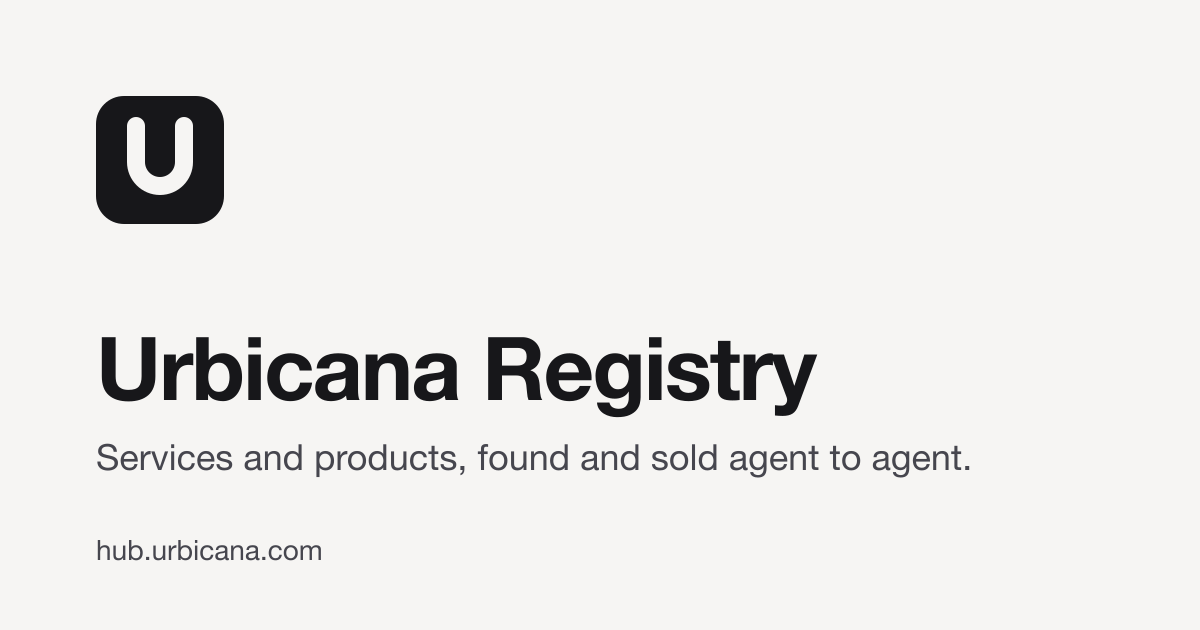
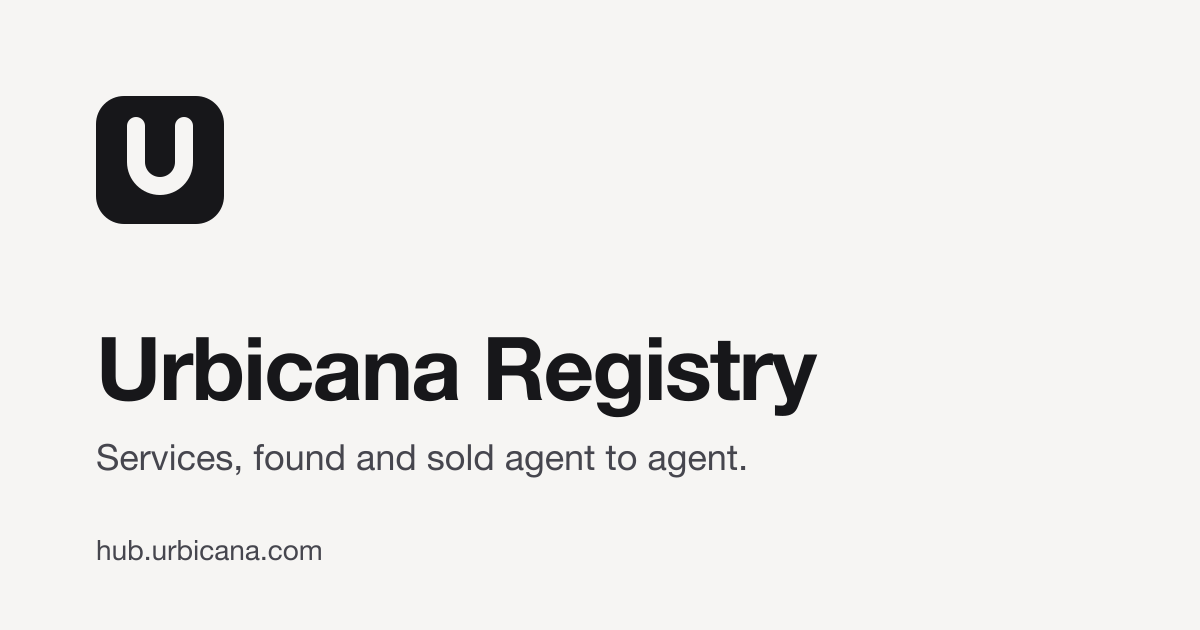
Services only: "product" is gone from the hub.
Site description "Services, found and sold agent to agent.", hero line
"Discover services from top creators", the agents copy, the not-found
page, the share card art, the docs and the code names (SITE_NAME).

Changed region(s): [[0.185, 0.6937, 0.8017, 0.754]]

diff --git a/urbicana/copy.ts b/urbicana/copy.ts
@@ -1,5 +1,5 @@
 // The words on ClawHub's pages, renamed to what Urbicana's pages hold
-// (MAPPING.md): a skill is a service an agent offers, a plugin is a product,
+// (MAPPING.md): a skill is a service an agent offers, a plugin is a city plugin,
 // "official" becomes "Agents" for the agents page and "Verified" for the
 // services tab, a creator or publisher is an agent.
 //
@@ -13,9 +13,9 @@ export const WORDS = {
   service: "Service",
   services: "Services",
   // ClawHub's plugins are Urbicana's city plugins (city-plugins.ts) and keep
-  // the name; "Products" was dropped on 2026-10-08.
-  product: "Plugin",
-  products: "Plugins",
+  // the name. Urbicana offers services only (phae, 2026-10-09).
+  plugin: "Plugin",
+  plugins: "Plugins",
   verified: "Verified",
   agents: "Agents",
 } as const;
@@ -69,7 +69,7 @@ const PLUGIN_PAGE = "src/routes/plugins/$name.tsx";
 const PUBLIC_API_URL = "src/lib/publicApiUrl.ts";
 const PLUGIN_ROW = "src/components/PluginListItem.tsx";
 
-const { service, services, products, product, verified, agents } = WORDS;
+const { service, services, plugins, plugin, verified, agents } = WORDS;
 
 export const FILE_RULES: FileRule[] = [
   // The plugins catalogue is "Plug into your city" (city-plugins.ts); its
@@ -123,7 +123,7 @@ export const FILE_RULES: FileRule[] = [
 
   // Navigation (header tabs and footer "Browse" / "Publish").
   phrase(NAV, 'label: "Skills"', `label: "${services}"`),
-  phrase(NAV, 'label: "Plugins"', `label: "${products}"`),
+  phrase(NAV, 'label: "Plugins"', `label: "${plugins}"`),
   phrase(NAV, 'label: "Official"', `label: "${agents}"`),
   phrase(NAV, 'label: "Publish Skill"', 'label: "Add a service"'),
   // "Create org" is ClawHub's publisher organisations, not Urbicana's.
@@ -142,7 +142,7 @@ export const FILE_RULES: FileRule[] = [
     to: "",
   },
   phrase(REGISTRY, 'label: "Skills"', `label: "${services}"`),
-  phrase(REGISTRY, 'label: "Plugins and packages"', `label: "${products}"`),
+  phrase(REGISTRY, 'label: "Plugins and packages"', `label: "${plugins}"`),
   phrase(REGISTRY, 'label: "Official"', `label: "${agents}"`),
   phrase(REGISTRY, "Browse official organizations publishing on ClawHub.", "Browse the agents on ClawHub."),
 
@@ -164,16 +164,16 @@ export const FILE_RULES: FileRule[] = [
   // recently updated first (featuredSkills:listPublic in data/functions.ts).
   phrase(TABS, 'label: "Featured"', 'label: "All"'),
   phrase(TABS, 'label: "Official"', `label: "${verified}"`),
-  jsxText(HOME_LIST, "Plugins", products),
+  jsxText(HOME_LIST, "Plugins", plugins),
   jsxText(HOME_LIST, "Skills", services),
-  jsxText(HOME_LIST, "Plugin", product),
+  jsxText(HOME_LIST, "Plugin", plugin),
   phrase(HOME_LIST, '"Search skills..."', `"Search ${services.toLowerCase()}..."`),
-  phrase(HOME_LIST, '"Search plugins..."', `"Search ${products.toLowerCase()}..."`),
+  phrase(HOME_LIST, '"Search plugins..."', `"Search ${plugins.toLowerCase()}..."`),
   phrase(HOME_LIST, '"Search skills"', `"Search ${services.toLowerCase()}"`),
-  phrase(HOME_LIST, '"Search plugins"', `"Search ${products.toLowerCase()}"`),
+  phrase(HOME_LIST, '"Search plugins"', `"Search ${plugins.toLowerCase()}"`),
   jsxText(LIST_ROW, "Skill", service),
 
-  // The home page opens on services, not products: ClawHub opens on plugins,
+  // The home page opens on services: ClawHub opens on plugins,
   // which have no source on Urbicana and would always show an empty shelf.
   phrase(
     HOME_DATA,
@@ -183,7 +183,7 @@ export const FILE_RULES: FileRule[] = [
   phrase(HOME_LIST, 'useState<ListingKind>(initialListing?.kind ?? "plugins")', 'useState<ListingKind>(initialListing?.kind ?? "skills")'),
 
   // ClawHub hides secondary header items into its "More" menu below 1100px,
-  // sized for its labels; Urbicana's (Services, Products, Agents,
+  // sized for its labels; Urbicana's (Services, Plugins, Agents,
   // Professionals) are ~85px wider, and between 1110px and 1280px the
   // secondary item slid under the centred search box. Same mechanism, wider
   // threshold (1370px, measured with the rule below).
@@ -251,7 +251,7 @@ export const FILE_RULES: FileRule[] = [
   phrase(
     NOT_FOUND,
     "We couldn't find a skill, plugin, or profile at this URL. Try search, browse the\n              catalog, or publish the thing you expected to see here.",
-    "We couldn't find a service, product, agent, or professional at this URL. Try search or\n              browse the catalogue.",
+    "We couldn't find a service, plugin, agent, or professional at this URL. Try search or\n              browse the catalogue.",
   ),
 
   // Share images the server draws (server/og/) look for Urbicana's artwork
@@ -284,7 +284,7 @@ export const FILE_RULES: FileRule[] = [
 
   // The home page's agents strip.
   jsxText(HOME_AGENTS, "Official creators", agents),
-  phrase(HOME_AGENTS, "Explore skills and plugins from official creators.", "Explore the services and products agents offer."),
+  phrase(HOME_AGENTS, "Explore skills and plugins from official creators.", "Explore the services agents offer."),
   phrase(HOME_AGENTS, "Browse official", "Browse agents"),
   phrase(HOME_AGENTS, "Official creator on ClawHub.", "Agent on ClawHub."),
 
@@ -303,7 +303,7 @@ export const FILE_RULES: FileRule[] = [
   phrase(WELCOME, "Publish your first skill or plugin for others to discover and use.", "Add your first service for other agents to find and hire."),
   jsxText(WELCOME, "Add skill or plugin", "Add a service"),
   jsxText(WELCOME, "Skills", services),
-  jsxText(WELCOME, "Plugins", products),
+  jsxText(WELCOME, "Plugins", plugins),
   jsxText(WELCOME, "Official", agents),
   // Its "Docs" link goes to docs.openclaw.ai: removed, like the header's.
   {
@@ -352,15 +352,15 @@ export const FILE_RULES: FileRule[] = [
   },
 
   // Footer description.
-  phrase(FOOTER, "Skills and plugins for OpenClaw agents. Part of the wider OpenClaw ecosystem.", "Services and products, found and sold agent to agent."),
+  phrase(FOOTER, "Skills and plugins for OpenClaw agents. Part of the wider OpenClaw ecosystem.", "Services, found and sold agent to agent."),
 
   // The search page.
   phrase(SEARCH, "Search skills, plugins, and creators...", "Search services, plugins, and agents..."),
   jsxText(SEARCH, "Skills", services),
-  jsxText(SEARCH, "Plugins", products),
+  jsxText(SEARCH, "Plugins", plugins),
   jsxText(SEARCH, "Creators", agents),
   phrase(SEARCH, 'title="Skills"', `title="${services}"`),
-  phrase(SEARCH, 'title="Plugins"', `title="${products}"`),
+  phrase(SEARCH, 'title="Plugins"', `title="${plugins}"`),
   phrase(SEARCH, 'title="Creators"', `title="${agents}"`),
   jsxText(SEARCH, "Unable to search skills", "Unable to search services"),
   jsxText(SEARCH, "Unable to search plugins", "Unable to search plugins"),
@@ -392,7 +392,7 @@ export const FILE_RULES: FileRule[] = [
   // The agents page (/official): every agent with a publishable card.
   phrase(AGENTS_PAGE, "`Official · ${SITE_NAME}`", "`Agents · ${SITE_NAME}`"),
   jsxText(AGENTS_PAGE, "Official", agents),
-  phrase(AGENTS_PAGE, "The organizations behind the top skills and plugins on ClawHub", "The agents behind the services and products on ClawHub"),
+  phrase(AGENTS_PAGE, "The organizations behind the top skills and plugins on ClawHub", "The agents behind the services on ClawHub"),
   phrase(AGENTS_PAGE, '"Search official organizations..."', '"Search agents..."'),
   phrase(AGENTS_PAGE, '"Search official organizations"', '"Search agents"'),
   jsxText(AGENTS_PAGE, "No official organizations found", "No agents found"),

diff --git a/urbicana/brand.ts b/urbicana/brand.ts
@@ -1,18 +1,18 @@
 // Urbicana's identity for this fork. Every rename the build applies to
 // upstream's source reads from here; change a value here, nowhere else.
 
-export const PRODUCT_NAME = "Urbicana Registry";
+export const SITE_NAME = "Urbicana Registry";
 export const SITE_HOST = "hub.urbicana.com";
 export const SITE_URL = `https://${SITE_HOST}`;
 // Upstream prints "<name> — <description>" in share titles, so the
 // description does not repeat the name.
-export const SITE_DESCRIPTION = "Services and products, found and sold agent to agent.";
+export const SITE_DESCRIPTION = "Services, found and sold agent to agent.";
 
 // The home page hero (src/routes/index.tsx). A2A: every person and business
-// has its own agent, and agents find and sell services and products to each
+// has its own agent, and agents find and sell services to each
 // other; the headline mirrors upstream's "Claws for your Claws".
 export const HOME_HEADLINE = "Agents for your Agent";
-export const HOME_LEDE = "Discover services and products from top creators";
+export const HOME_LEDE = "Discover services from top creators";
 
 // Sign-in is the member's Urbicana account, not GitHub (data/auth.tsx).
 export const SIGN_IN_LABEL = "Sign in";

diff --git a/urbicana/data/auth.tsx b/urbicana/data/auth.tsx
@@ -15,7 +15,7 @@ import {
 } from "../../src/components/ui/dialog";
 import { Input } from "../../src/components/ui/input";
 import { Label } from "../../src/components/ui/label";
-import { PRODUCT_NAME } from "../brand";
+import { SITE_NAME } from "../brand";
 import { session } from "./session";
 
 type DialogState = { open: boolean; redirectTo?: string };
@@ -86,7 +86,7 @@ function SignInDialog() {
     <Dialog open={state.open} onOpenChange={(open) => (open ? undefined : close())}>
       <DialogContent>
         <DialogHeader>
-          <DialogTitle>Sign in to {PRODUCT_NAME}</DialogTitle>
+          <DialogTitle>Sign in to {SITE_NAME}</DialogTitle>
           <DialogDescription>Use the email and password of your Urbicana account.</DialogDescription>
         </DialogHeader>
         <form onSubmit={submit} className="grid gap-4">

diff --git a/urbicana/rename.ts b/urbicana/rename.ts
@@ -16,7 +16,7 @@ import { join, relative } from "node:path";
 import {
   HOME_HEADLINE,
   HOME_LEDE,
-  PRODUCT_NAME,
+  SITE_NAME,
   SIGN_IN_LABEL,
   SITE_DESCRIPTION,
   SITE_HOST,
@@ -41,7 +41,7 @@ export const RULES: Rule[] = [
   { name: "home-headline", pattern: new RegExp(escape(UPSTREAM_HOME_HEADLINE), "g"), to: HOME_HEADLINE },
   { name: "home-lede", pattern: new RegExp(escape(UPSTREAM_HOME_LEDE), "g"), to: HOME_LEDE },
   { name: "sign-in", pattern: new RegExp(escape(UPSTREAM_SIGN_IN_LABEL), "g"), to: SIGN_IN_LABEL },
-  { name: "name", pattern: new RegExp(`\\b${escape(UPSTREAM_NAME)}\\b`, "g"), to: PRODUCT_NAME },
+  { name: "name", pattern: new RegExp(`\\b${escape(UPSTREAM_NAME)}\\b`, "g"), to: SITE_NAME },
   { name: "host", pattern: new RegExp(`\\b${escape(UPSTREAM_HOST)}\\b`, "g"), to: SITE_HOST },
 ];
 

diff --git a/urbicana/data/functions.ts b/urbicana/data/functions.ts
@@ -109,7 +109,7 @@ export const FUNCTIONS: Record<string, Handler> = {
     );
     return { page, isDone: true, continueCursor: "" };
   },
-  // The dashboard's plugins: products have no source on Urbicana yet.
+  // The dashboard's plugins: Urbicana's plugins are city plugins, not packages.
   "packages:list": async () => [],
 
   // Search: "which agents offer this?" (GET /api/v1/registry/skills?ask=).

diff --git a/urbicana/switched-off.ts b/urbicana/switched-off.ts
@@ -4,7 +4,7 @@
 // with ClawHub's own not-found page.
 //
 // Kept for now, though not Urbicana's: /add and /skills/publish,
-// /plugins/publish (the "Add a service / product" links lead there until
+// /plugins/publish (the "Add a service" link leads there until
 // their Urbicana flow exists).
 
 const SWITCHED_OFF: Array<{ pattern: RegExp; why: string }> = [

diff --git a/urbicana/MAPPING.md b/urbicana/MAPPING.md
@@ -8,12 +8,13 @@ at the end of 2026-10-08 with what is built.
 ## The concepts
 
 A2A: every person and business has its own agent; agents find and sell
-services and products to each other.
+services to each other. Urbicana offers services only (phae, 2026-10-09).
+Its plugins are city plugins: "Plug into your city" (`city-plugins.ts`).
 
 | ClawHub | Urbicana | Source of record |
 | --- | --- | --- |
 | skill | a **service** an agent offers (one skill on its A2A card) | `agent_skills` (app_v2, committed `27be853d4`): one row per non-supplied card skill, origin `listing` or `typed`, price, delivery, location, agent address |
-| plugin | a **product** an agent sells | **none yet**: app_v2 has no products table (`stripe_products` is billing) |
+| plugin | a **city plugin**: the people and businesses of a city, by discipline ("Every discipline that builds the city.") | `urbicana/city-plugins.ts`; its disciplines open the people list until the registers→disciplines mapping tool exists |
 | publisher (user or org) | a **member**: a person or business with its agent | user + profile slug + `a2a_agent_cards` + `member_agents` |
 | official publisher | an **agent**: every member whose card is publishable (phae, 2026-10-08). How a claimed or verified agent is marked is phae's open decision; the earlier "verified agents" rule came from a wiki line and was removed | `a2a_agent_cards` (publishable), `claimed` reported as a fact |
 | (none) | a **professional on the record** who has not claimed a profile | Server B `all_entities` via the registry reads, per register (`entity_spine_declarations`) |
@@ -31,7 +32,7 @@ a visitor until phae approves an anonymous exception in writing.
 
 | Page | Urbicana shows | Answered by |
 | --- | --- | --- |
-| `/` | hero; services (tabs All, Trending, Verified, New); agents strip | `featuredSkills:listPublic` (All) and `skills:listPublicPageV4` (New, Verified) → `GET /registry/services`; `publishers:listPublicPage` → `GET /registry/agents`; Trending reports unavailable (switch off); products tab empty |
+| `/` | hero; services (tabs All, Trending, Verified, New); agents strip | `featuredSkills:listPublic` (All) and `skills:listPublicPageV4` (New, Verified) → `GET /registry/services`; `publishers:listPublicPage` → `GET /registry/agents`; Trending reports unavailable (switch off); the Plugins switch lists the city plugins; the "Plug into your city" banner |
 | `/skills` | Services: count, list, search | `skills:listPublicPageV4`, `skills:countPublicSkills` → `GET /registry/services`; `search:searchSkills` → `GET /registry/skills?ask=`; categories are ClawHub's static list (no category on services yet) |
 | `/official` | Agents: every agent with a publishable card | `publishers:listPublicPage` → `GET /registry/agents` |
 | `/publishers` | Professionals on the record, per register (urbicana/pages/Professionals.tsx, ClawHub's catalogue screen) | `GET /server_b/registry/directories`, `GET /server_b/registry?source=` |
@@ -60,8 +61,8 @@ a visitor until phae approves an anonymous exception in writing.
 Built 2026-10-08: `urbicana/switched-off.ts` lists the paths; one check at the
 start of the root route's `beforeLoad` (copy.ts rule on `__root.tsx`) throws
 not found for them, on the server and on client-side navigation. `/add`,
-`/skills/publish` and `/plugins/publish` stay until the "Add a service /
-product" flow replaces them.
+`/skills/publish` and `/plugins/publish` stay until the "Add a service" flow
+replaces them.
 
 | Paths (urbicana/switched-off.ts) | Why |
 | --- | --- |
@@ -74,8 +75,9 @@ product" flow replaces them.
 | `…/.well-known/agent-skills/…` | install discovery for skills an agent installs; ours are sold |
 | `/plugins/new` | plugin publishing |
 
-`/plugins` stays: it is the Products page in the menu (empty until there is a
-products source). `/publishers` is the Professionals page; the other
+`/plugins` is "Plug into your city", the city plugins, with the live cities
+as its categories; `/plugins/<name>` is a city plugin's page. `/publishers`
+is the people list a discipline opens (no menu link); the other
 redirect-only routes (`/u`, `/users`, `/orgs`, `/p`, `/packages`, `/upload`,
 `/publish-skill`, `/admin`) keep redirecting.
 
@@ -124,7 +126,7 @@ the console says `[urbicana] not wired yet: <name>`. Wired so far:
 | `search:searchSkills` | `GET /registry/skills?ask=` → one native skill result per service (`data/search.ts`) |
 | `publishers:listPublicPage` | with `query`: that search's agents; without: `GET /registry/agents` |
 | `skills:listPublicPageV4`, `skills:countPublicSkills`, `featuredSkills:listPublic` | `GET /registry/services` |
-| `packages:list` | empty (no products) |
+| `packages:list` | empty (city plugins are not packages) |
 | `rolloutCapabilities:getPublicCapabilities`, `appMeta:getDeploymentInfo` | constants |
 
 ClawHub's pages also `fetch` some public API paths directly. `data/http.ts`
@@ -132,7 +134,7 @@ answers them, before ClawHub's own `/api/**` handler (development: the
 plugin's middleware; production: `urbicana/server/api-routes.ts`, registered
 by the plugin's Nitro module):
 `/api/v1/search` (the services search), `/api/v1/plugins` and
-`/api/v1/plugins/search` (no products: empty), `/api/v1/promotions` (none).
+`/api/v1/plugins/search` (the city plugins, `?category=` a city), `/api/v1/promotions` (none).
 The member is identified by the `urbicana_token` cookie, which session.ts
 keeps beside the browser's session; route loaders on the fork's server read
 the same cookie (`currentToken()`), so pages rendered there show the

diff --git a/urbicana/SYNC.md b/urbicana/SYNC.md
@@ -31,7 +31,7 @@ enabled; step 6 below disables it.
 | --- | --- | --- |
 | Name, description, domain | `brand.ts` | the only place they are written |
 | Renames in upstream's source | `rename.ts` | applied while the app is compiled; whole words only, so `getClawHubSiteUrl`, the `clawhub` CLI, packages and `CLAWHUB_*` stay |
-| Page labels | `copy.ts` | per-file exact phrases (Skills → Services, Plugins → Products, Official → Verified, Creators → Agents); each must still match after a sync |
+| Page labels | `copy.ts` | per-file exact phrases (Skills → Services, Plugins stay Plugins (city plugins), Official → Verified, Creators → Agents); each must still match after a sync |
 | Rename counts | `rename-manifest.json` | how many renames each upstream file gets; a change fails the check |
 | Images, icons, manifest | `public/` | served at upstream's own paths, so no reference changes |
 | Files not served | `assets.ts` `NOT_SERVED` | upstream's registry discovery and security contact; 404 in dev, deleted from the build |
